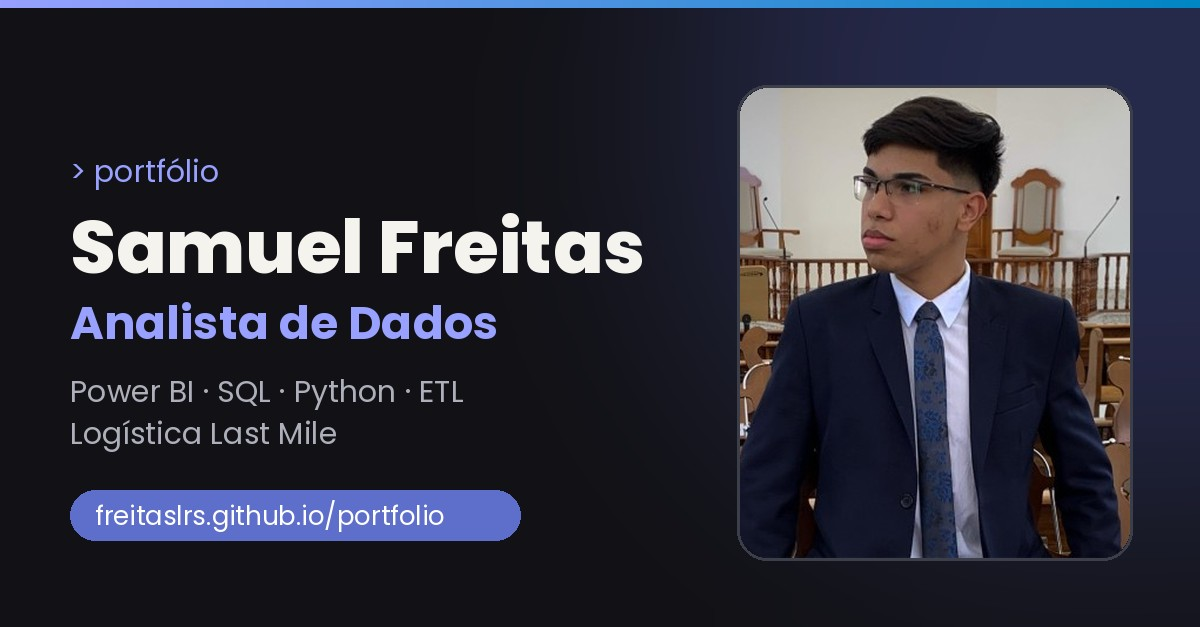
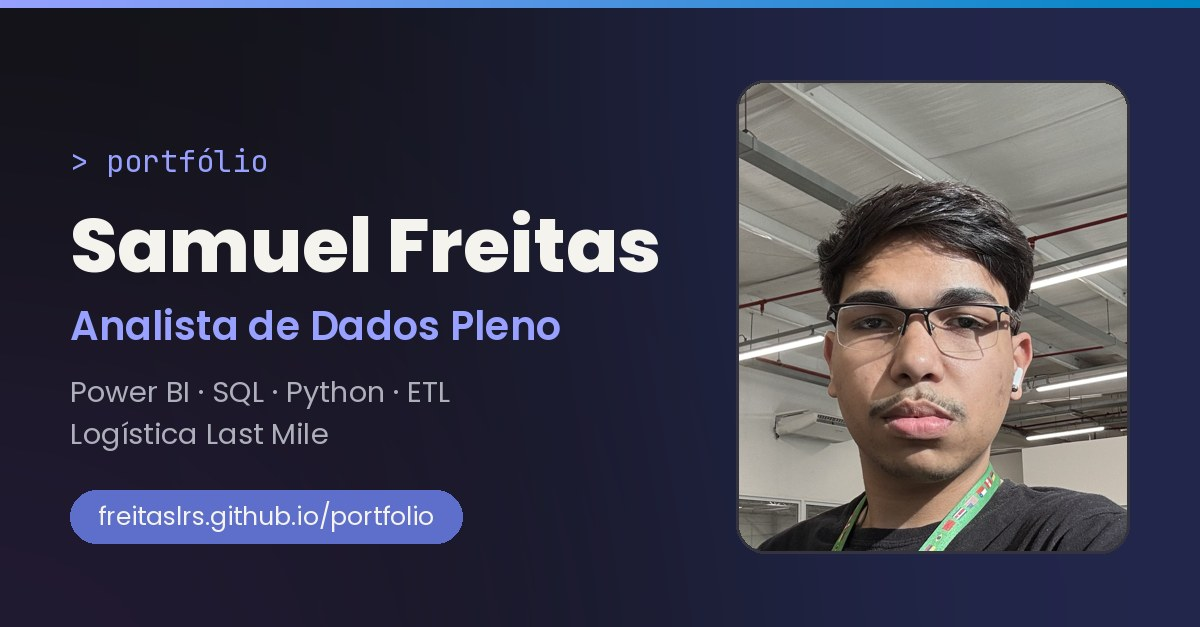
Foto de perfil nova e capa (og-image) atualizada: Analista de Dados Pleno
Claude-Session: https://claude.ai/code/session_01FkDpEcQCduRJHwVEFTc2ns

diff --git a/index.html b/index.html
@@ -21,7 +21,7 @@
     <meta property="og:title" content="Samuel Freitas | Analista de Dados" />
     <meta property="og:description" content="Dashboards Power BI, SQL, PostgreSQL, Python e ETL para operações de logística last mile." />
     <meta property="og:url" content="https://freitaslrs.github.io/portfolio/" />
-    <meta property="og:image" content="https://freitaslrs.github.io/portfolio/IMGS/og-image.jpg" />
+    <meta property="og:image" content="https://freitaslrs.github.io/portfolio/IMGS/og-image.jpg?v=2" />
     <meta property="og:image:width" content="1200" />
     <meta property="og:image:height" content="627" />
     <meta property="og:image:alt" content="Samuel Freitas, Analista de Dados" />
@@ -36,7 +36,7 @@
         "name": "Samuel Freitas",
         "jobTitle": "Analista de Dados",
         "url": "https://freitaslrs.github.io/portfolio/",
-        "image": "https://freitaslrs.github.io/portfolio/IMGS/og-image.jpg",
+        "image": "https://freitaslrs.github.io/portfolio/IMGS/og-image.jpg?v=2",
         "address": { "@type": "PostalAddress", "addressLocality": "Osasco", "addressRegion": "SP", "addressCountry": "BR" },
         "alumniOf": [{ "@type": "CollegeOrUniversity", "name": "Universidade Anhembi Morumbi" }],
         "knowsAbout": ["Power BI", "DAX", "SQL", "PostgreSQL", "Python", "ETL", "Engenharia de dados", "Logística last mile"],
@@ -115,7 +115,7 @@
             </div>
             <div class="home-img">
                 <div class="photo-frame">
-                    <img src="IMGS/minha-foto.webp" alt="Foto de Samuel Freitas" width="320" height="400" fetchpriority="high" />
+                    <img src="IMGS/minha-foto.webp?v=2" alt="Foto de Samuel Freitas" width="320" height="400" fetchpriority="high" />
                 </div>
                 <div class="float-card fc-1"><i class="bx bx-data" aria-hidden="true"></i><div><b>30M+</b><small>registros tratados</small></div></div>
                 <div class="float-card fc-2"><i class="bx bx-bar-chart-alt-2" aria-hidden="true"></i><div><b>Power BI</b><small>usado pela presidência</small></div></div>

diff --git a/en/index.html b/en/index.html
@@ -21,7 +21,7 @@
     <meta property="og:title" content="Samuel Freitas | Data Analyst" />
     <meta property="og:description" content="Power BI dashboards, SQL, PostgreSQL, Python and ETL for last-mile logistics operations." />
     <meta property="og:url" content="https://freitaslrs.github.io/portfolio/en/" />
-    <meta property="og:image" content="https://freitaslrs.github.io/portfolio/IMGS/og-image.jpg" />
+    <meta property="og:image" content="https://freitaslrs.github.io/portfolio/IMGS/og-image.jpg?v=2" />
     <meta property="og:image:width" content="1200" />
     <meta property="og:image:height" content="627" />
     <meta property="og:image:alt" content="Samuel Freitas, Data Analyst" />
@@ -36,7 +36,7 @@
         "name": "Samuel Freitas",
         "jobTitle": "Data Analyst",
         "url": "https://freitaslrs.github.io/portfolio/en/",
-        "image": "https://freitaslrs.github.io/portfolio/IMGS/og-image.jpg",
+        "image": "https://freitaslrs.github.io/portfolio/IMGS/og-image.jpg?v=2",
         "address": { "@type": "PostalAddress", "addressLocality": "Osasco", "addressRegion": "SP", "addressCountry": "BR" },
         "alumniOf": [{ "@type": "CollegeOrUniversity", "name": "Universidade Anhembi Morumbi" }],
         "knowsAbout": ["Power BI", "DAX", "SQL", "PostgreSQL", "Python", "ETL", "Data engineering", "Last-mile logistics"],
@@ -115,7 +115,7 @@
             </div>
             <div class="home-img">
                 <div class="photo-frame">
-                    <img src="../IMGS/minha-foto.webp" alt="Photo of Samuel Freitas" width="320" height="400" fetchpriority="high" />
+                    <img src="../IMGS/minha-foto.webp?v=2" alt="Photo of Samuel Freitas" width="320" height="400" fetchpriority="high" />
                 </div>
                 <div class="float-card fc-1"><i class="bx bx-data" aria-hidden="true"></i><div><b>30M+</b><small>records processed</small></div></div>
                 <div class="float-card fc-2"><i class="bx bx-bar-chart-alt-2" aria-hidden="true"></i><div><b>Power BI</b><small>used by top leadership</small></div></div>
